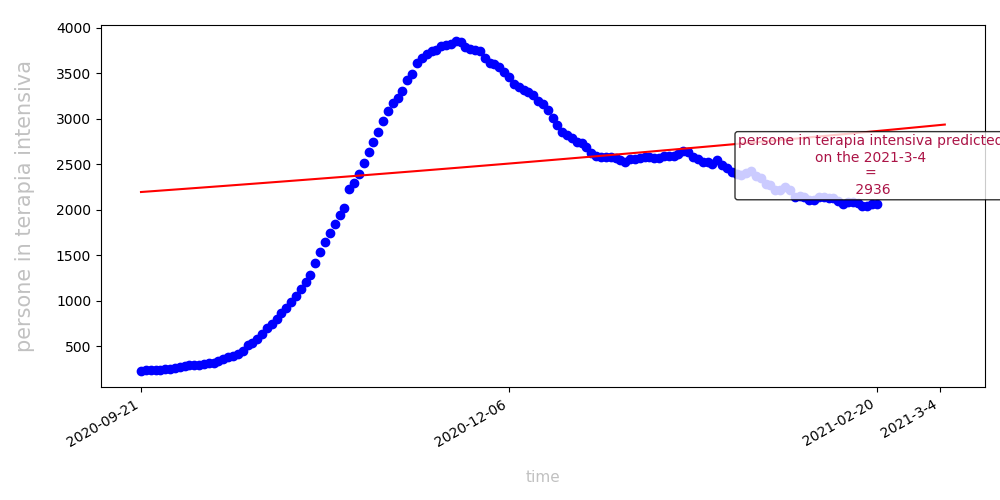
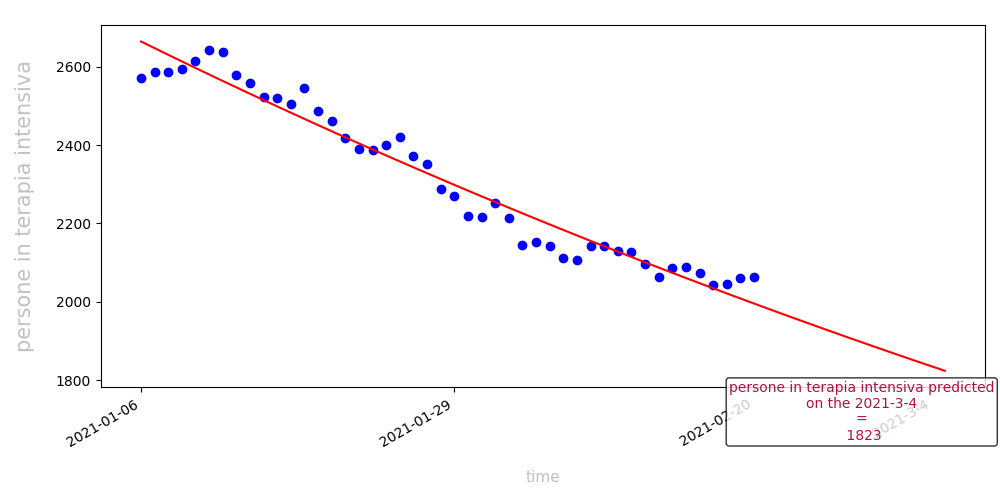
improved Prediction & correct outliers

diff --git a/functions/plot_maker.py b/functions/plot_maker.py
@@ -90,7 +90,7 @@ class PlotsMaker():
         plot_comparison(x, y, dates, labels, style='dark_background',
                         title=title, save=f_output)
 
-    def make_prediction(self, region=None, kind='intensive', base_date='2020-08-31'):
+    def make_prediction(self, region=None, kind='intensive', base_date=None):
         # get region
         df = self.national
         if region:
@@ -98,6 +98,22 @@ class PlotsMaker():
                 df = self.regional.get_region(region)
             except Exception as e:
                 print(f"FAILED GETTING REGION {region} --> {e}")
+        if not base_date:
+            STR = 5
+            array = df.compose(kind)
+            dates = df.compose('dates')
+            trend, started, last = 0, False, 1e7
+            for val, date in zip(reversed(array), reversed(dates)):
+                if val > last:
+                    trend = min(trend+1, STR)
+                else:
+                    trend = max(trend-1, -STR)
+                last = val
+                if trend**2 >= STR**2:
+                    started = True
+                if trend == 0 and started:
+                    break
+            base_date = date
 
         # prediction: exponential fit
         y = df.compose([('after', base_date), kind])

diff --git a/functions/scraper.py b/functions/scraper.py
@@ -12,6 +12,43 @@ TODO = {
 # current path
 funct_folder = pathlib.Path(__file__).parent.absolute()
 
+
+def clean_data(results):
+    # delete outliers from dataset
+    new_results = []
+    keys = list(results[0].keys())
+    if 'data' in keys:
+        keys.remove('data')
+    avgs = {k: 0 for k in keys}
+    std = {k: 0 for k in keys}
+
+    # mean
+    for record in results:
+        for k in keys:
+            avgs[k] += record[k]
+    for k in keys:
+        avgs[k] /= len(results)
+
+    # var
+    for record in results:
+        for k in keys:
+            std[k] += (record[k]-avgs[k])**2
+
+    for k in keys:
+        std[k] = (std[k]/len(results))**(1/2)
+
+    for record in results:
+        ok = True
+        for k in keys:
+            if (record[k] - avgs[k])**2 > 5/2*std[k]**2:
+                ok = False
+                break
+        if ok:
+            new_results.append(record)
+
+    return new_results
+
+
 # ITALY DATA
 try:
     if 'IT' not in TODO:
@@ -66,6 +103,7 @@ try:
             pass
 
     results = [x[1] for x in results.items()]
+    results = clean_data(results)
 
     with open(FRANCE_FILE, 'w') as fout:
         json.dump(results, fout)

diff --git a/main.py b/main.py
@@ -44,8 +44,8 @@ pltmk.make_states_comparison(kind='new_cases')
 pltmk.make_states_comparison(kind='hospitalized')
 
 # prediction for the future
-pltmk.make_prediction(base_date='2020-09-21')
-pltmk.make_prediction(base_date='2020-09-15', kind='hospitalized')
+pltmk.make_prediction()
+pltmk.make_prediction(kind='hospitalized')
 
 # plot all history
 pltmk.make_history()
